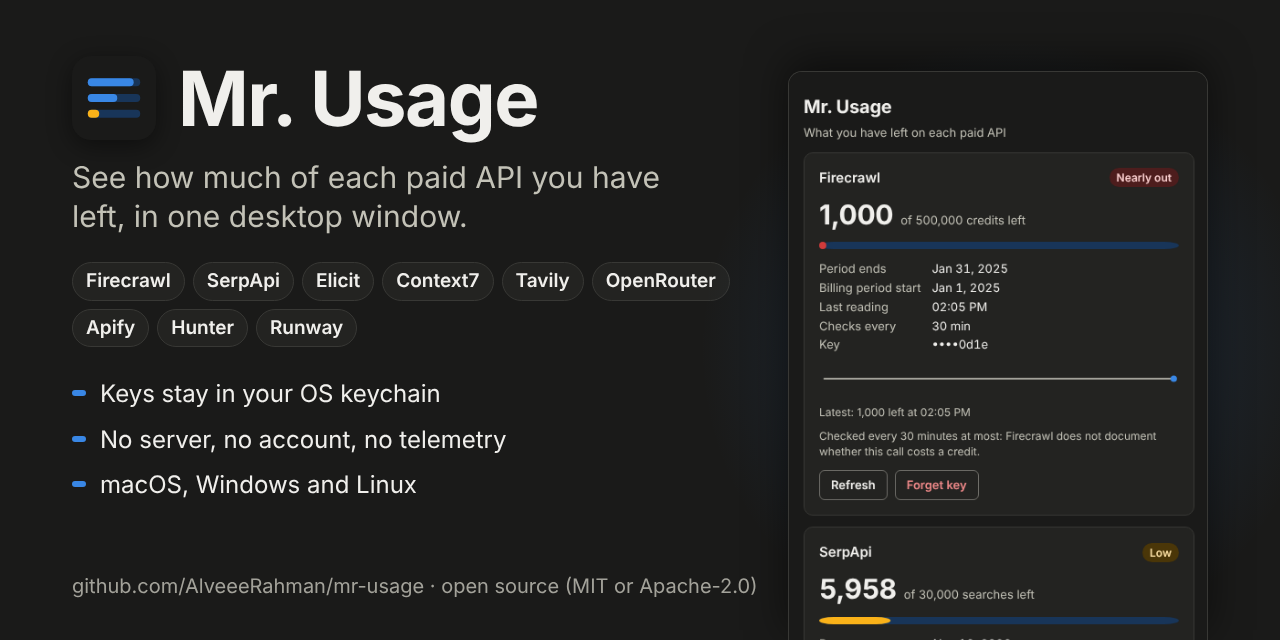
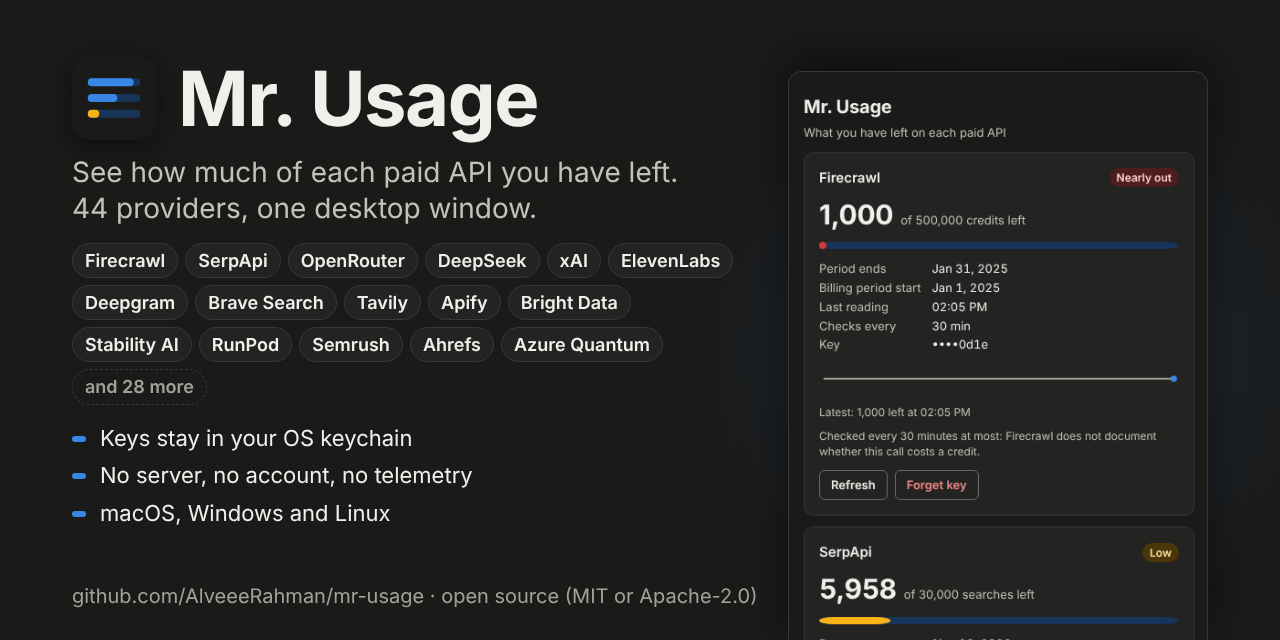
Social preview: name sixteen well-known providers of the 44
The card still listed the original nine. It now shows sixteen widely used
providers across the categories, says 44 providers, and the renderer
accepts a CommonJS build of Playwright.

Claude-Session: https://claude.ai/code/session_016m6kfZ4D2pE8kKoiigXgWs

diff --git a/docs/assets/social-preview.html b/docs/assets/social-preview.html
@@ -26,24 +26,25 @@
     content: ""; position: absolute; right: -40px; top: 40px; width: 620px; height: 620px;
     background: radial-gradient(closest-side, rgba(57, 135, 229, 0.22), rgba(57, 135, 229, 0));
   }
-  .title { display: flex; align-items: center; gap: 22px; margin: 0 0 18px; }
+  .title { display: flex; align-items: center; gap: 22px; margin: 0 0 14px; }
   .title img { width: 84px; height: 84px; border-radius: 19px; box-shadow: 0 6px 24px rgba(0, 0, 0, 0.45); }
   h1 { margin: 0; font-size: 76px; font-weight: 700; letter-spacing: -0.02em; line-height: 1; }
-  .tag { margin: 0 0 26px; font-size: 30px; line-height: 1.3; color: #c3c2b7; max-width: 640px; }
-  .chips { display: flex; flex-wrap: wrap; gap: 8px 8px; margin: 0 0 30px; max-width: 660px; }
+  .tag { margin: 0 0 16px; font-size: 28px; line-height: 1.3; color: #c3c2b7; max-width: 640px; }
+  .chips { display: flex; flex-wrap: wrap; gap: 7px 7px; margin: 0 0 18px; max-width: 690px; }
+  .chips .more { color: #a3a29a; border-style: dashed; background: none; }
   .chips span {
-    font-size: 19px; font-weight: 600; color: #f0efec;
-    padding: 5px 13px; border-radius: 999px; border: 1px solid #383835; background: #232321;
+    font-size: 18px; font-weight: 600; color: #f0efec;
+    padding: 4px 12px; border-radius: 999px; border: 1px solid #383835; background: #232321;
   }
-  ul { margin: 0; padding: 0; list-style: none; font-size: 24px; color: #f0efec; }
-  li { margin: 0 0 12px; padding-left: 28px; position: relative; }
+  ul { margin: 0; padding: 0; list-style: none; font-size: 22px; color: #f0efec; }
+  li { margin: 0 0 7px; padding-left: 28px; position: relative; }
   li::before { content: ""; position: absolute; left: 0; top: 13px; width: 14px; height: 6px; border-radius: 3px; background: #3987e5; }
   .shot {
     position: relative; align-self: end; border: 1px solid #383835; border-bottom: 0;
     border-radius: 14px 14px 0 0; overflow: hidden; height: 568px; box-shadow: 0 -10px 40px rgba(0, 0, 0, 0.5);
   }
   .shot img { width: 420px; display: block; }
-  .foot { position: absolute; left: 72px; bottom: 40px; font-size: 20px; color: #a3a29a; }
+  .foot { position: absolute; left: 72px; bottom: 30px; font-size: 20px; color: #a3a29a; }
 </style>
 </head>
 <body>
@@ -52,10 +53,12 @@
       <img src="../../src-tauri/icons/icon.svg" alt="">
       <h1>Mr. Usage</h1>
     </div>
-    <p class="tag">See how much of each paid API you have left, in one desktop window.</p>
+    <p class="tag">See how much of each paid API you have left. 44 providers, one desktop window.</p>
     <div class="chips">
-      <span>Firecrawl</span><span>SerpApi</span><span>Elicit</span><span>Context7</span><span>Tavily</span>
-      <span>OpenRouter</span><span>Apify</span><span>Hunter</span><span>Runway</span>
+      <span>Firecrawl</span><span>SerpApi</span><span>OpenRouter</span><span>DeepSeek</span><span>xAI</span>
+      <span>ElevenLabs</span><span>Deepgram</span><span>Brave Search</span><span>Tavily</span><span>Apify</span>
+      <span>Bright Data</span><span>Stability AI</span><span>RunPod</span><span>Semrush</span><span>Ahrefs</span>
+      <span>Azure Quantum</span><span class="more">and 28 more</span>
     </div>
     <ul>
       <li>Keys stay in your OS keychain</li>
